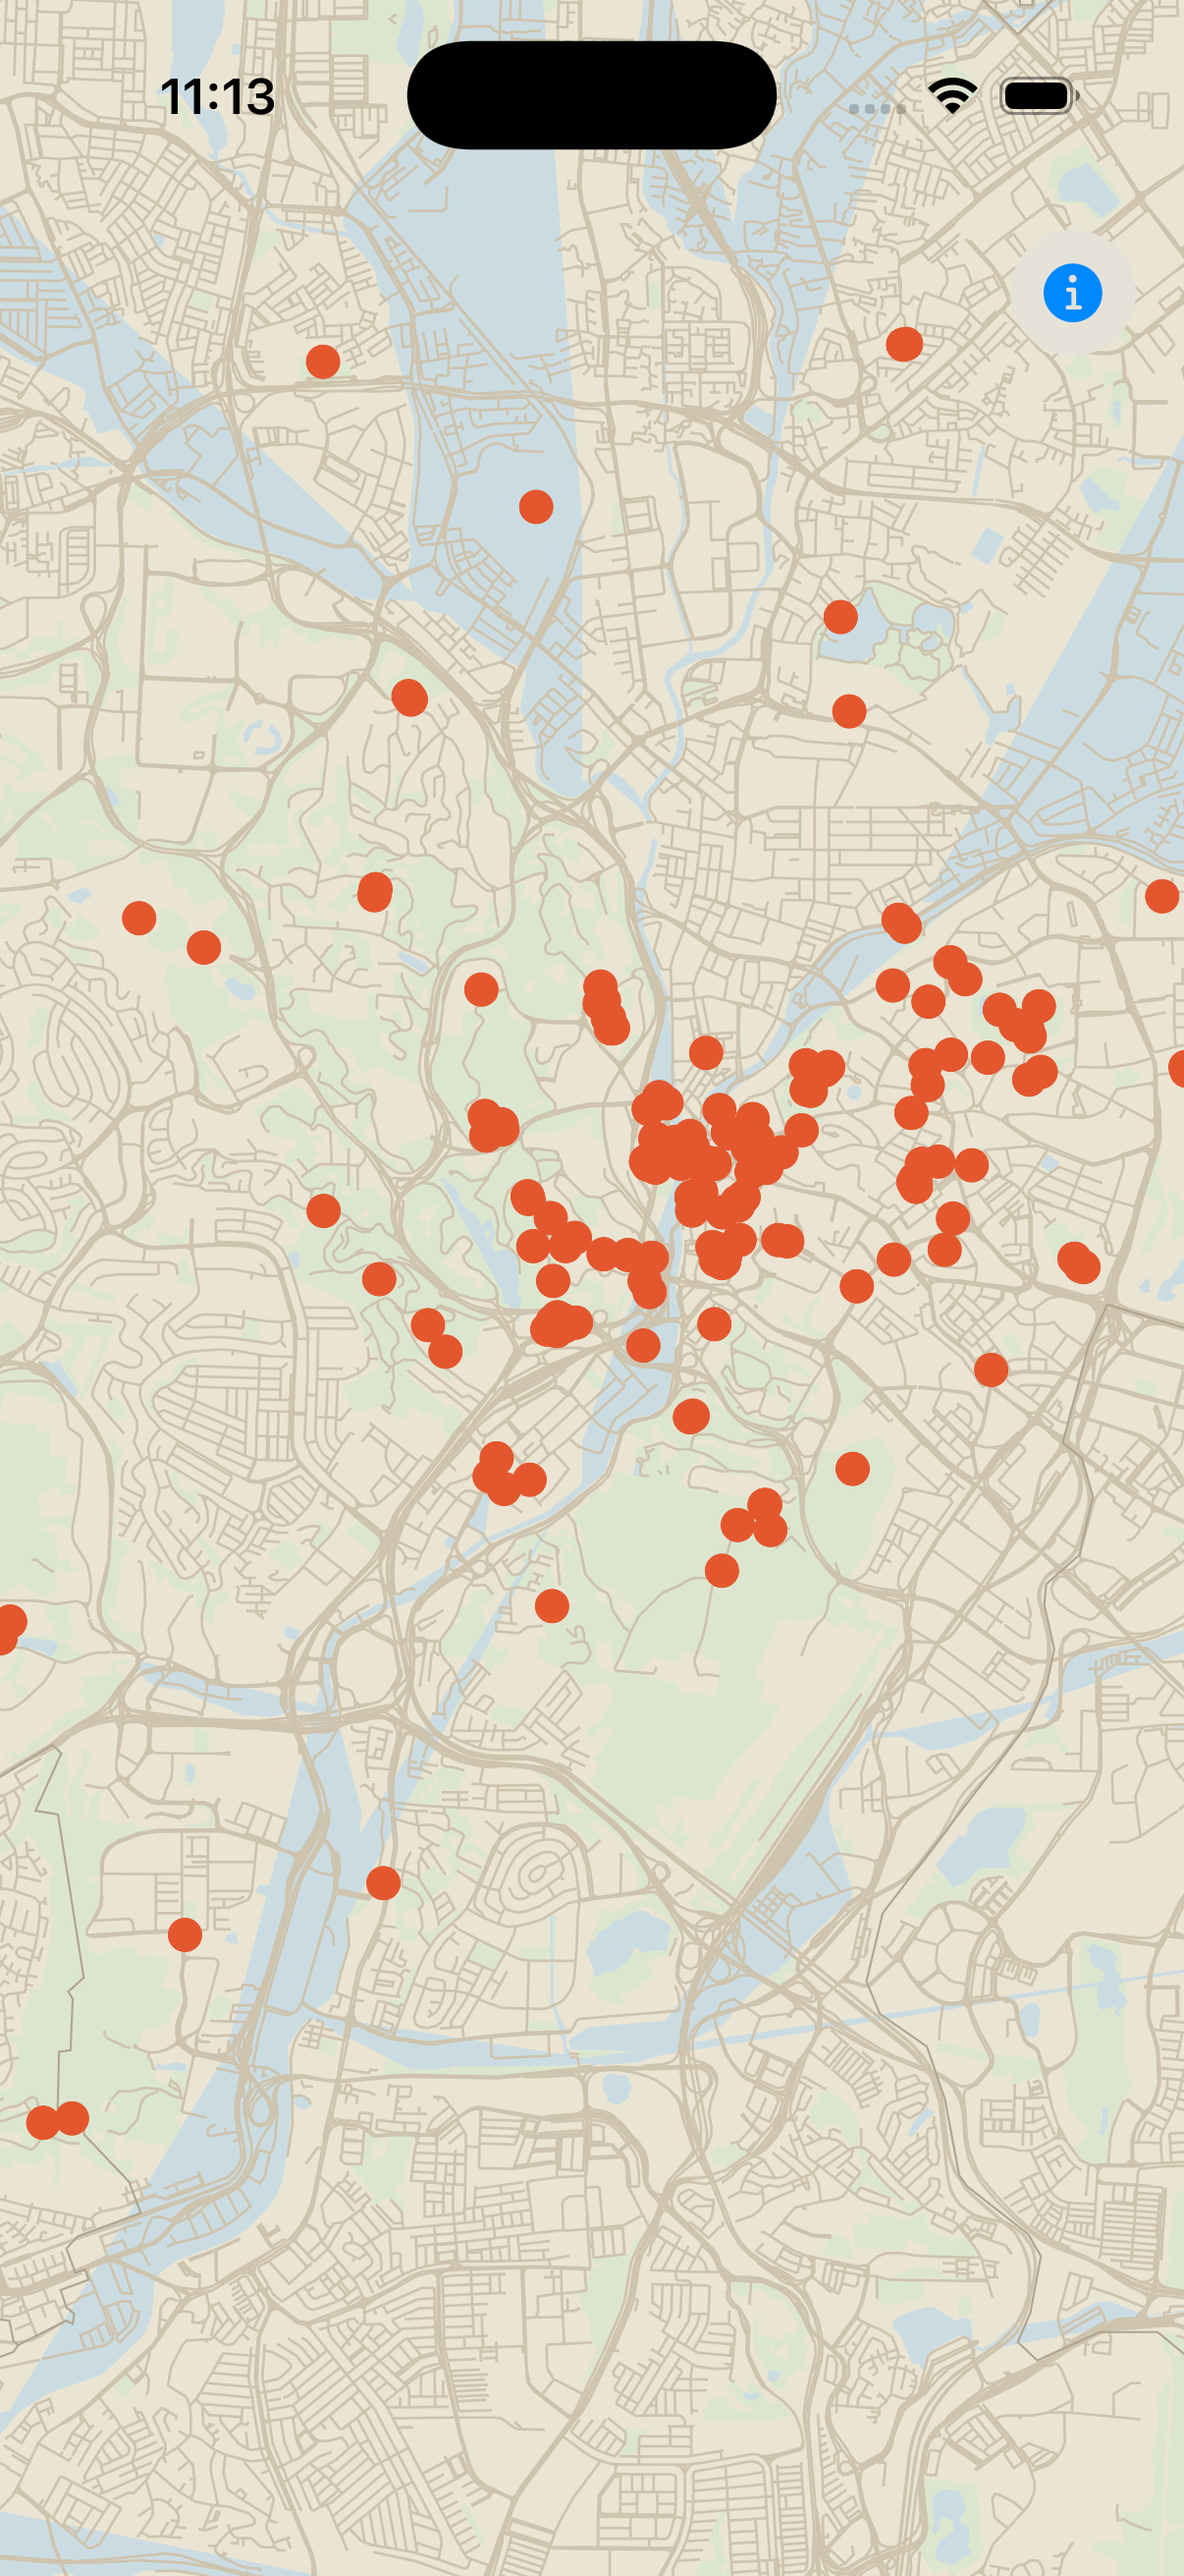
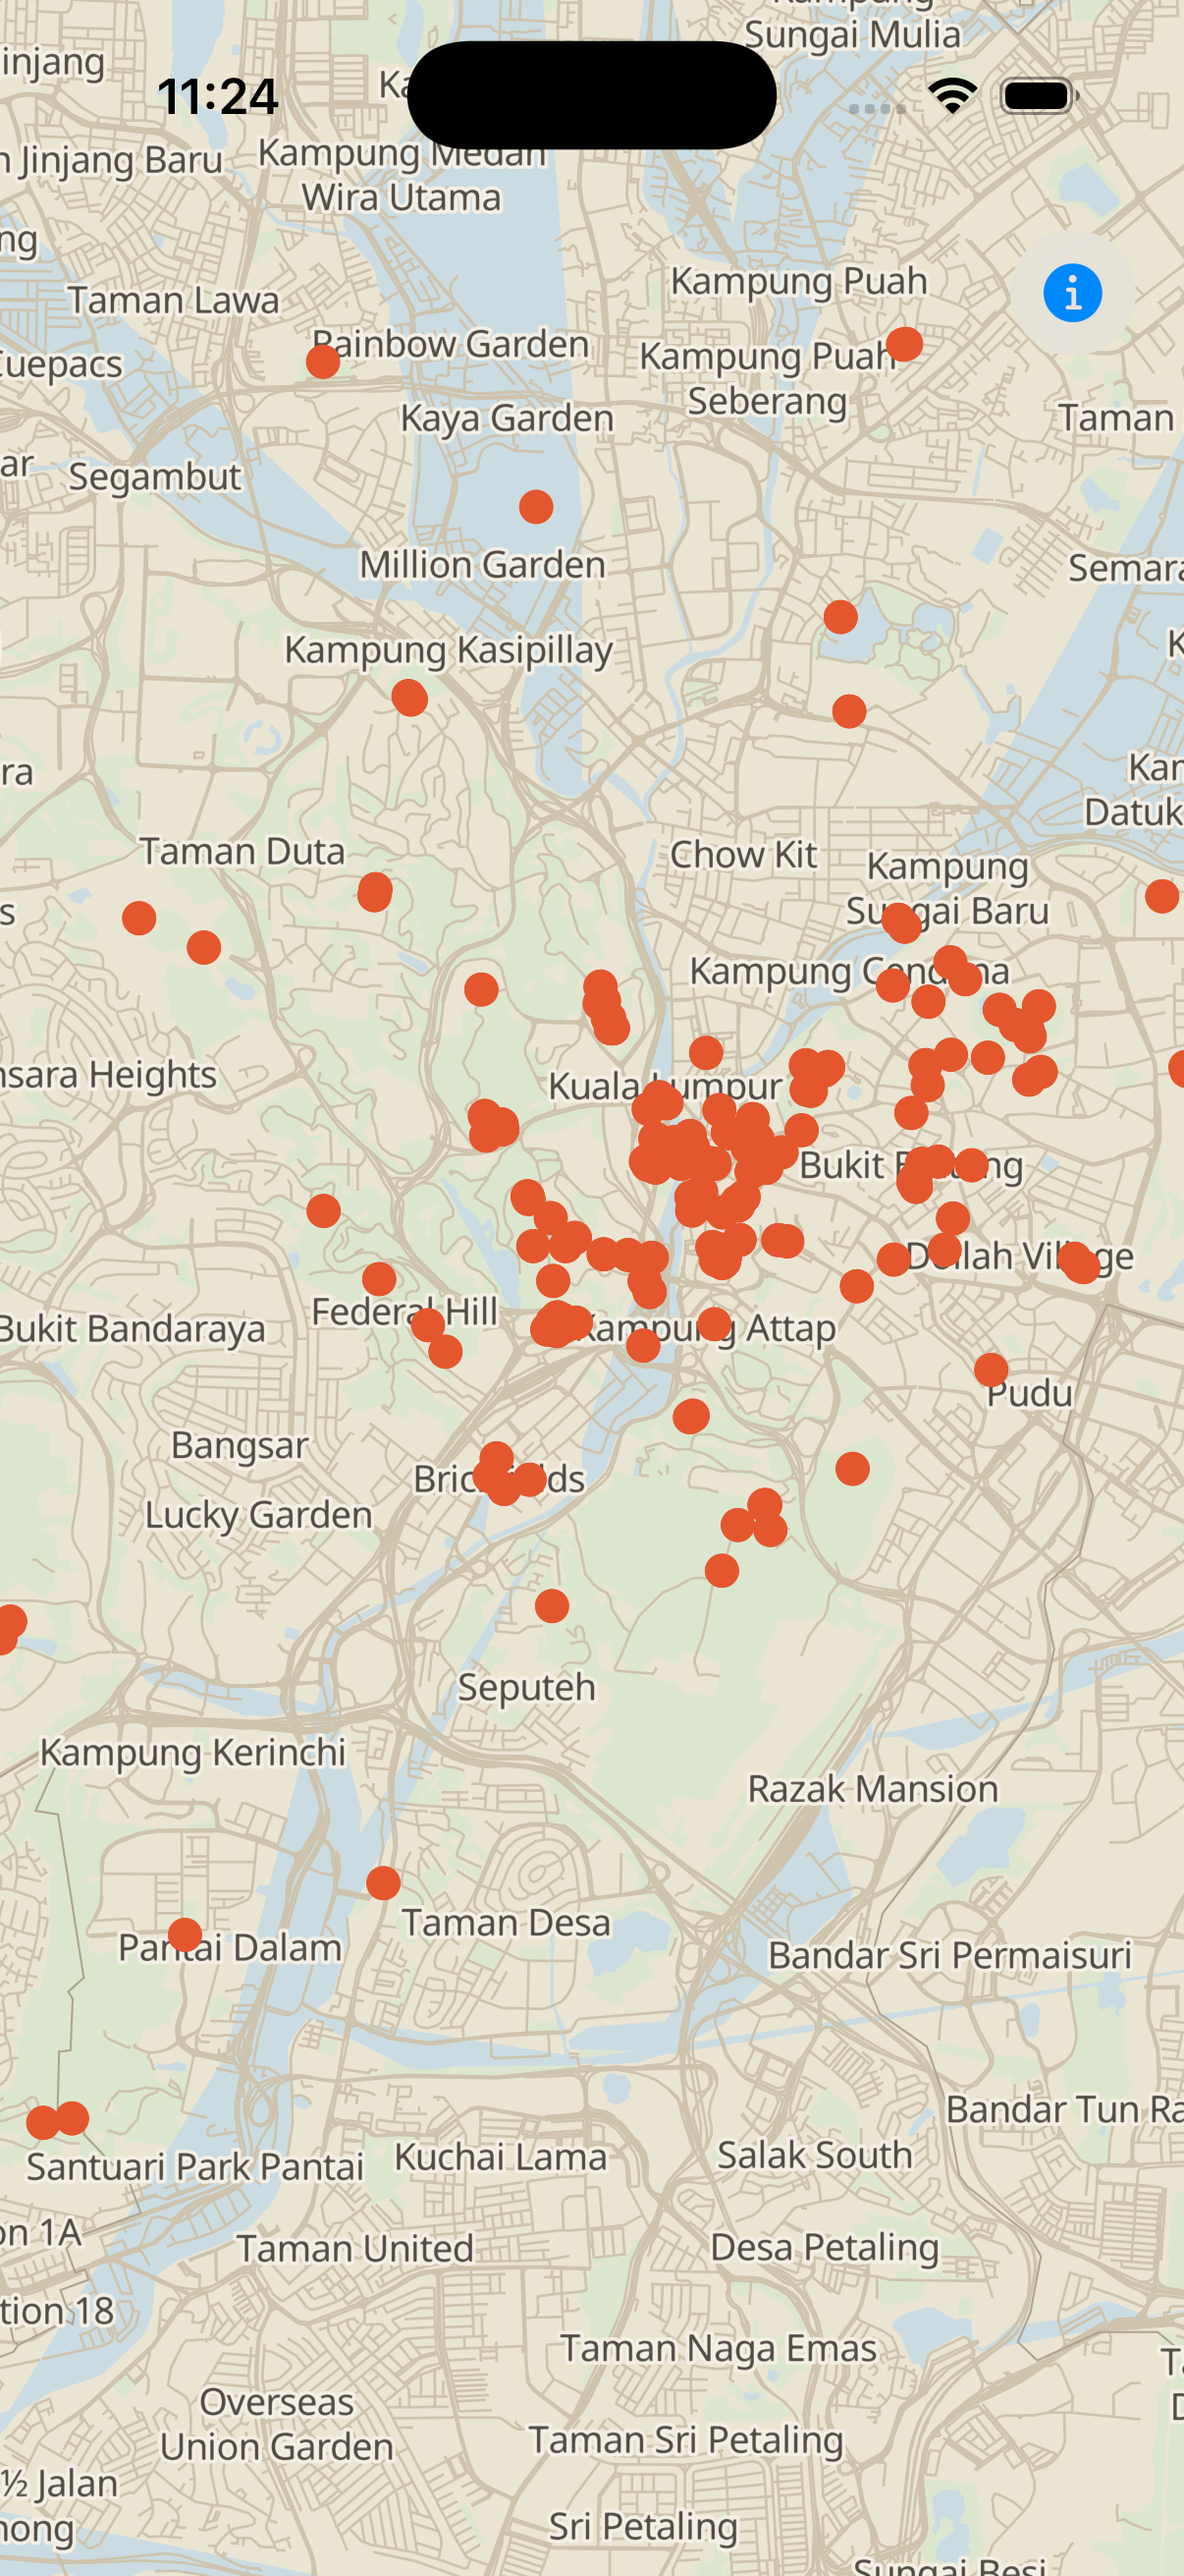
Restore defined-paper labels

diff --git a/ios/Tests/MakingTracksMapStyleTests/PaperStyleTests.swift b/ios/Tests/MakingTracksMapStyleTests/PaperStyleTests.swift
@@ -6,7 +6,8 @@ final class PaperStyleTests: XCTestCase {
         let style = paperBasemapStyle(pmtilesURL: "pmtiles://https://tiles.making-tracks.app/malaysia/20260716T155409Z/malaysia.pmtiles")
         guard case let .object(root) = style else { return XCTFail("root not object") }
         XCTAssertEqual(root["version"], .double(8))
-        XCTAssertNil(root["glyphs"])
+        XCTAssertEqual(paperBasemapGlyphsURL, "https://tiles.making-tracks.app/global/fonts/{fontstack}/{range}.pbf")
+        XCTAssertEqual(root["glyphs"], .string(paperBasemapGlyphsURL))
         guard case let .object(sources) = root["sources"],
               case let .object(base) = sources["basemap"]
         else { return XCTFail("no basemap source") }
@@ -29,12 +30,15 @@ final class PaperStyleTests: XCTestCase {
         XCTAssertEqual(paintValue("fill-color", in: layer(id: "water", in: layers)), .string(MapTheme.definedPaper.water))
         XCTAssertEqual(paintValue("line-color", in: layer(id: "roads", in: layers)), .string(MapTheme.definedPaper.roads))
         XCTAssertEqual(paintValue("line-color", in: layer(id: "boundaries", in: layers)), .string(MapTheme.definedPaper.boundaries))
+        XCTAssertEqual(paintValue("text-color", in: layer(id: "places-label", in: layers)), .string(MapTheme.definedPaper.labels))
+        XCTAssertEqual(paintValue("text-halo-color", in: layer(id: "places-label", in: layers)), .string(MapTheme.definedPaper.labelHalo))
         XCTAssertEqual(layer(id: "earth", in: layers)?["source-layer"], .string("earth"))
         XCTAssertEqual(layer(id: "parks", in: layers)?["source-layer"], .string("landuse"))
         XCTAssertEqual(layer(id: "water", in: layers)?["source-layer"], .string("water"))
         XCTAssertEqual(layer(id: "roads", in: layers)?["source-layer"], .string("roads"))
         XCTAssertEqual(layer(id: "boundaries", in: layers)?["source-layer"], .string("boundaries"))
-        XCTAssertNil(layer(id: "places-label", in: layers))
+        XCTAssertEqual(layer(id: "places-label", in: layers)?["source-layer"], .string("places"))
+        XCTAssertEqual(layoutValue("text-font", in: layer(id: "places-label", in: layers)), .array([.string("Noto Sans Regular")]))
         XCTAssertNoThrow(try style.jsonString())
     }
 
@@ -43,6 +47,7 @@ final class PaperStyleTests: XCTestCase {
         guard case let .object(root) = style,
               case let .array(layers) = root["layers"]
         else { return XCTFail("no layers") }
+        XCTAssertNil(root["glyphs"])
         XCTAssertEqual(layerIDs(in: layers), ["background", "earth", "water", "roads", "boundaries"])
         XCTAssertEqual(paintValue("background-color", in: layer(id: "background", in: layers)), .string(MapTheme.snow.background))
         XCTAssertEqual(paintValue("fill-color", in: layer(id: "earth", in: layers)), .string(MapTheme.snow.land))
@@ -64,7 +69,11 @@ final class PaperStyleTests: XCTestCase {
                   case let .array(layers) = root["layers"]
             else { return XCTFail("invalid root for theme \(theme.id)") }
 
-            XCTAssertNil(root["glyphs"], theme.id)
+            if theme.showsLabels {
+                XCTAssertEqual(root["glyphs"], .string(paperBasemapGlyphsURL), theme.id)
+            } else {
+                XCTAssertNil(root["glyphs"], theme.id)
+            }
             XCTAssertEqual(base["type"], .string("vector"), theme.id)
             XCTAssertEqual(base["url"], .string("pmtiles://https://tiles.making-tracks.app/malaysia/current.pmtiles"), theme.id)
 
@@ -73,6 +82,9 @@ final class PaperStyleTests: XCTestCase {
                 expectedLayerIDs.append("parks")
             }
             expectedLayerIDs += ["water", "roads", "boundaries"]
+            if theme.showsLabels {
+                expectedLayerIDs.append("places-label")
+            }
             XCTAssertEqual(layerIDs(in: layers), expectedLayerIDs, theme.id)
 
             XCTAssertEqual(layer(id: "background", in: layers)?["type"], .string("background"), theme.id)
@@ -98,14 +110,29 @@ final class PaperStyleTests: XCTestCase {
                 XCTAssertNil(layer(id: "parks", in: layers), theme.id)
             }
 
-            XCTAssertNil(layer(id: "places-label", in: layers), theme.id)
+            if theme.showsLabels {
+                XCTAssertEqual(layer(id: "places-label", in: layers)?["type"], .string("symbol"), theme.id)
+                XCTAssertEqual(layer(id: "places-label", in: layers)?["source"], .string("basemap"), theme.id)
+                XCTAssertEqual(layer(id: "places-label", in: layers)?["source-layer"], .string("places"), theme.id)
+                XCTAssertEqual(layer(id: "places-label", in: layers)?["minzoom"], .double(8), theme.id)
+                XCTAssertEqual(layoutValue("text-field", in: layer(id: "places-label", in: layers)), expectedLabelTextField, theme.id)
+                XCTAssertEqual(layoutValue("text-font", in: layer(id: "places-label", in: layers)), .array([.string("Noto Sans Regular")]), theme.id)
+                XCTAssertEqual(layoutValue("text-size", in: layer(id: "places-label", in: layers)), expectedLabelTextSize, theme.id)
+                XCTAssertEqual(layoutValue("text-allow-overlap", in: layer(id: "places-label", in: layers)), .bool(false), theme.id)
+                XCTAssertEqual(layoutValue("text-ignore-placement", in: layer(id: "places-label", in: layers)), .bool(false), theme.id)
+                XCTAssertEqual(paintValue("text-color", in: layer(id: "places-label", in: layers)), .string(theme.labels), theme.id)
+                XCTAssertEqual(paintValue("text-halo-color", in: layer(id: "places-label", in: layers)), .string(theme.labelHalo), theme.id)
+                XCTAssertEqual(paintValue("text-halo-width", in: layer(id: "places-label", in: layers)), .double(1.25), theme.id)
+            } else {
+                XCTAssertNil(layer(id: "places-label", in: layers), theme.id)
+            }
             XCTAssertNoThrow(try style.jsonString(), theme.id)
         }
     }
 
     func testEveryPaletteColourIsMutedAndPinIsSaturated() {
         for theme in MapTheme.allCandidates {
-            for hex in [theme.background, theme.land, theme.parks, theme.water, theme.roads, theme.boundaries] {
+            for hex in [theme.background, theme.land, theme.parks, theme.water, theme.roads, theme.boundaries, theme.labels, theme.labelHalo] {
                 XCTAssertLessThan(saturation(hex: hex), MUTED_MAX, "basemap colour \(hex) is not muted in theme \(theme.id)")
             }
         }
@@ -139,6 +166,11 @@ final class PaperStyleTests: XCTestCase {
         return paint[key]
     }
 
+    private func layoutValue(_ key: String, in layer: [String: JSONValue]?) -> JSONValue? {
+        guard case let .object(layout)? = layer?["layout"] else { return nil }
+        return layout[key]
+    }
+
     private var expectedParksFilter: JSONValue {
         .array([
             .string("in"),
@@ -152,6 +184,24 @@ final class PaperStyleTests: XCTestCase {
                 .string("garden"),
                 .string("cemetery"),
             ])]),
+        ])
+    }
+
+    private var expectedLabelTextField: JSONValue {
+        .array([
+            .string("coalesce"),
+            .array([.string("get"), .string("name:en")]),
+            .array([.string("get"), .string("name")]),
+        ])
+    }
+
+    private var expectedLabelTextSize: JSONValue {
+        .array([
+            .string("interpolate"),
+            .array([.string("linear")]),
+            .array([.string("zoom")]),
+            .double(8), .double(10),
+            .double(14), .double(14),
         ])
     }
 }

diff --git a/ios/Sources/MakingTracksMapStyle/PaperStyle.swift b/ios/Sources/MakingTracksMapStyle/PaperStyle.swift
@@ -1,4 +1,5 @@
 public let MUTED_MAX = 0.25
+public let paperBasemapGlyphsURL = "https://tiles.making-tracks.app/global/fonts/{fontstack}/{range}.pbf"
 
 public func saturation(hex: String) -> Double {
     var string = hex
@@ -27,9 +28,12 @@ public struct MapTheme: Sendable {
     public var water: String
     public var roads: String
     public var boundaries: String
+    public var labels: String
+    public var labelHalo: String
     public var roadWidth: Double
     public var boundaryWidth: Double
     public var showsParks: Bool
+    public var showsLabels: Bool
 
     public init(
         id: String,
@@ -40,9 +44,12 @@ public struct MapTheme: Sendable {
         water: String,
         roads: String,
         boundaries: String,
+        labels: String,
+        labelHalo: String,
         roadWidth: Double,
         boundaryWidth: Double,
-        showsParks: Bool
+        showsParks: Bool,
+        showsLabels: Bool
     ) {
         self.id = id
         self.displayName = displayName
@@ -52,9 +59,12 @@ public struct MapTheme: Sendable {
         self.water = water
         self.roads = roads
         self.boundaries = boundaries
+        self.labels = labels
+        self.labelHalo = labelHalo
         self.roadWidth = roadWidth
         self.boundaryWidth = boundaryWidth
         self.showsParks = showsParks
+        self.showsLabels = showsLabels
     }
 
     public static let snow = MapTheme(
@@ -66,9 +76,12 @@ public struct MapTheme: Sendable {
         water: "#DCE3E5",
         roads: "#E3DED2",
         boundaries: "#CDC7B8",
+        labels: "#676157",
+        labelHalo: "#F4F1EA",
         roadWidth: 0.6,
         boundaryWidth: 0.5,
-        showsParks: false
+        showsParks: false,
+        showsLabels: false
     )
 
     public static let definedPaper = MapTheme(
@@ -80,9 +93,12 @@ public struct MapTheme: Sendable {
         water: "#CADCE2",
         roads: "#CEC3AD",
         boundaries: "#AFA48F",
+        labels: "#514D45",
+        labelHalo: "#F3EFE5",
         roadWidth: 0.9,
         boundaryWidth: 0.7,
-        showsParks: true
+        showsParks: true,
+        showsLabels: true
     )
 
     public static let streetContrast = MapTheme(
@@ -94,9 +110,12 @@ public struct MapTheme: Sendable {
         water: "#C3D9E3",
         roads: "#C4B7A0",
         boundaries: "#9E9482",
+        labels: "#4A473F",
+        labelHalo: "#F2EEE6",
         roadWidth: 1.15,
         boundaryWidth: 0.8,
-        showsParks: true
+        showsParks: true,
+        showsLabels: true
     )
 
     public static let verdantKL = MapTheme(
@@ -108,9 +127,12 @@ public struct MapTheme: Sendable {
         water: "#BCD6DE",
         roads: "#D0C0A5",
         boundaries: "#A79A82",
+        labels: "#47443B",
+        labelHalo: "#F1EDDF",
         roadWidth: 0.95,
         boundaryWidth: 0.75,
-        showsParks: true
+        showsParks: true,
+        showsLabels: true
     )
 
     public static let allCandidates: [MapTheme] = [.snow, .definedPaper, .streetContrast, .verdantKL]
@@ -125,7 +147,9 @@ private func layer(
     _ type: String,
     source: String? = nil,
     sourceLayer: String? = nil,
+    minzoom: Double? = nil,
     filter: JSONValue? = nil,
+    layout: [String: JSONValue] = [:],
     paint: [String: JSONValue]
 ) -> JSONValue {
     var object: [String: JSONValue] = [
@@ -133,11 +157,17 @@ private func layer(
         "type": .string(type),
         "paint": .object(paint),
     ]
+    if !layout.isEmpty {
+        object["layout"] = .object(layout)
+    }
     if let source {
         object["source"] = .string(source)
     }
     if let sourceLayer {
         object["source-layer"] = .string(sourceLayer)
+    }
+    if let minzoom {
+        object["minzoom"] = .double(minzoom)
     }
     if let filter {
         object["filter"] = filter
@@ -179,7 +209,31 @@ public func paperBasemapStyle(pmtilesURL: String, theme: MapTheme = .definedPape
         ]),
     ])
 
-    return .object([
+    if theme.showsLabels {
+        layers.append(layer("places-label", "symbol", source: "basemap", sourceLayer: "places", minzoom: 8, layout: [
+            "text-field": .array([
+                .string("coalesce"),
+                .array([.string("get"), .string("name:en")]),
+                .array([.string("get"), .string("name")]),
+            ]),
+            "text-font": .array([.string("Noto Sans Regular")]),
+            "text-size": .array([
+                .string("interpolate"),
+                .array([.string("linear")]),
+                .array([.string("zoom")]),
+                .double(8), .double(10),
+                .double(14), .double(14),
+            ]),
+            "text-allow-overlap": .bool(false),
+            "text-ignore-placement": .bool(false),
+        ], paint: [
+            "text-color": .string(theme.labels),
+            "text-halo-color": .string(theme.labelHalo),
+            "text-halo-width": .double(1.25),
+        ]))
+    }
+
+    var root: [String: JSONValue] = [
         "version": .double(8),
         "sources": .object([
             "basemap": .object([
@@ -188,5 +242,9 @@ public func paperBasemapStyle(pmtilesURL: String, theme: MapTheme = .definedPape
             ]),
         ]),
         "layers": .array(layers),
-    ])
+    ]
+    if theme.showsLabels {
+        root["glyphs"] = .string(paperBasemapGlyphsURL)
+    }
+    return .object(root)
 }
